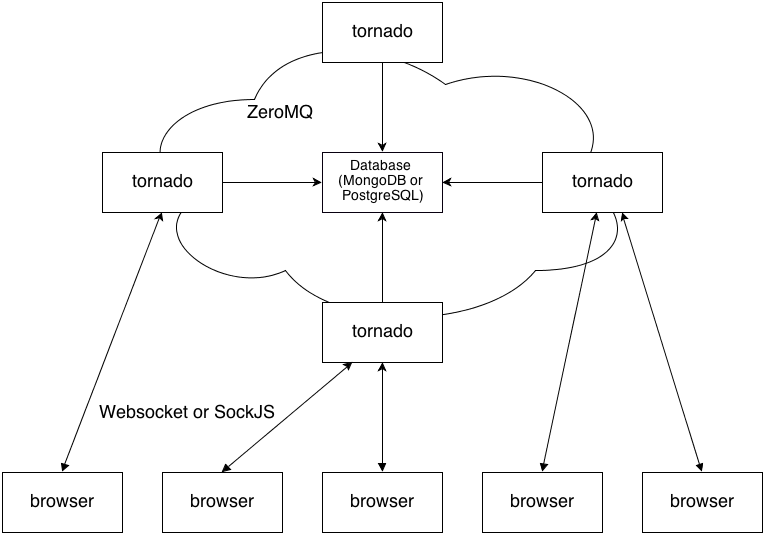
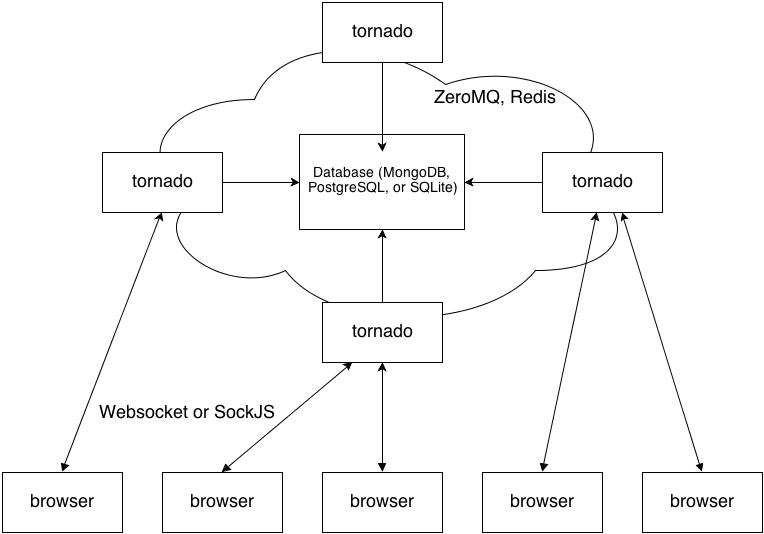
readme updated

Changed region(s): [[0.3613, 0.2996, 0.6322, 0.4494], [0.572, 0.1498, 0.7225, 0.2097], [0.3312, 0.1798, 0.4215, 0.2397]]

diff --git a/src/centrifuge/core.py b/src/centrifuge/core.py
@@ -137,7 +137,7 @@ class Application(tornado.web.Application):
 
         # detect and apply database storage module
         storage_module = structure_settings.get(
-            'storage', 'centrifuge.structure.mongodb'
+            'storage', 'centrifuge.structure.sqlite'
         )
         storage = utils.import_module(storage_module)
 

diff --git a/README.md b/README.md
@@ -1,8 +1,7 @@
 CENTRIFUGE
 ==========
 
-Light and simple open-source platform for real-time message broadcasting in
-your web applications.
+Simple platform for real-time message broadcasting in web applications.
 
 The main goal of Centrifuge is the same as in [Pusher](http://pusher.com/) or
 [Pubnub](http://www.pubnub.com/) services. The main difference is that Centrifuge is
@@ -11,32 +10,52 @@ open-source and requires installation (it is worth noting that installation is r
 It is built on top of [Tornado](http://www.tornadoweb.org/en/stable/) -
 extremely fast and mature Python's async web server.
 
-Centrifuge also uses [ZeroMQ](http://www.zeromq.org/) sockets for internal
+Centrifuge uses [ZeroMQ](http://www.zeromq.org/) steroid sockets for internal
 communication and publish/subscribe operations.
+
+For presence and history data Centrifuge utilizes [Redis](http://redis.io/) - advanced and super fast
+in memory key-value store.
 
 To connect to Centrifuge from browser pure [Websockets](http://en.wikipedia.org/wiki/WebSocket)
 or [SockJS](https://github.com/sockjs/sockjs-client) library can be
 used.
 
-Centrifuge comes with administrative web interface and by default requires
-[MongoDB](http://www.mongodb.org/) to keep information about projects, categories etc.
-You can also use [PostgreSQL](http://www.postgresql.org/) instead of MongoDB.
+Centrifuge comes with administrative web interface to manage project/category structure and monitor important
+messages.
+
+Persistent data (projects, categories) by default stored in [SQLite](http://www.sqlite.org/) database.
+But when running Centrifuge instance processes on different machines you should use [MongoDB](http://www.mongodb.org/)
+or [PostgreSQL](http://www.postgresql.org/) backends instead of SQLite for structure management.
 
 Please, read the [documentation](https://centrifuge.readthedocs.org/en/latest/), watch [screencast](http://www.youtube.com/watch?v=RCLnCexzfOk)
 and look at [examples](https://github.com/FZambia/centrifuge/tree/master/examples) for more information.
 
-P.S. If BSD license of Centrifuge does not allow you to use it, tell me and I'll consider to change license.
 
+Architecture diagram
+--------------------
 
-Architecture diagram:
 ![centrifuge](https://raw.github.com/FZambia/centrifuge/master/docs/description/centrifuge_architecture.png "centrifuge")
 
-Admin web interface:
+Admin web interface
+-------------------
+
 ![admin_web_interface](https://raw.github.com/FZambia/centrifuge/master/docs/starting/main.png "admin web interface")
 
 
 To run tests type the following from `tests` directory (`centrifuge` must be in PYTHONPATH):
 
 ```python
+# IMPORTANT! Tests clear Redis database on every running. Be aware of this.
 python -m unittest discover -p 'test_*.py'
 ```
+
+Contributing
+------------
+
+Pull requests are welcome! But, please, follow next principles:
+
+* keep things as simple as possible
+* pep8
+* python 2.6, 2.7 and 3.3 compatible
+
+P.S. If BSD license of Centrifuge does not allow you to use Centrifuge, tell me and I'll consider to change license.
